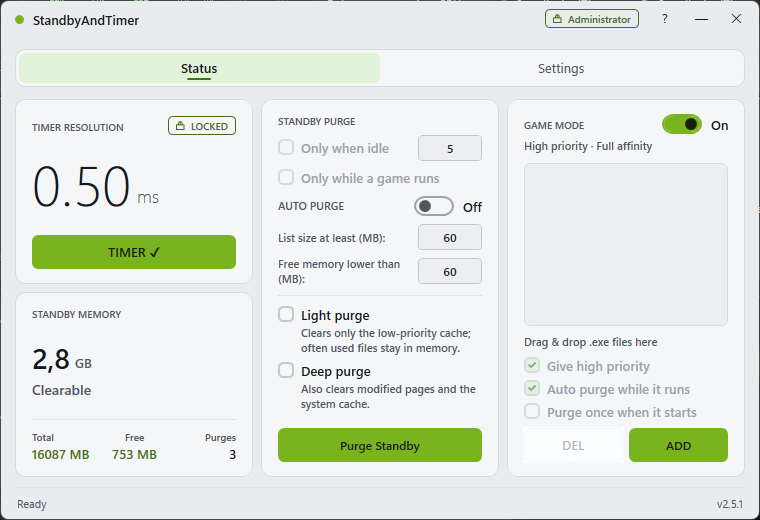
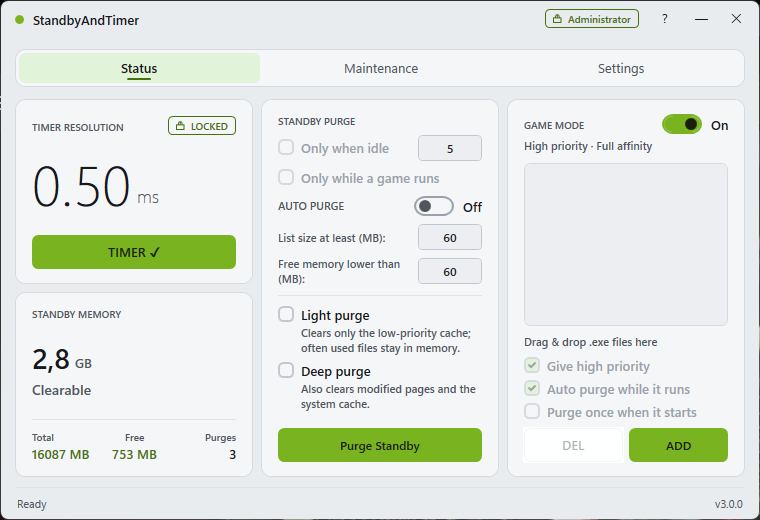
chore: 3.0.0-beta1, README and CLAUDE.md for the Maintenance tab

diff --git a/README.md b/README.md
@@ -20,8 +20,8 @@ A small Windows app for gamers: it makes the system timer finer, frees memory Wi
 | Purge history · Temizlik geçmişi | System settings · Sistem ayarları |
 | <img src="docs/screenshot-guide.png" alt="The usage guide behind the ? button" /> | <img src="docs/screenshot-light.png" alt="Status page in the Light theme" /> |
 | Usage guide (**?**) · Kullanım kılavuzu | Light theme · Açık tema |
-| <img src="docs/screenshot-tray.png" alt="Tray menu with quick settings: deep purge, Game Mode and timer lock" /> | |
-| Tray menu · Tepsi menüsü | |
+| <img src="docs/screenshot-maintenance.png" alt="Maintenance tab: shader caches, temp files, Update leftovers, Recycle Bin and Downloads cleanup, power plan, virtual memory and Windows tools" /> | <img src="docs/screenshot-tray.png" alt="Tray menu with quick settings: deep purge, Game Mode and timer lock" /> |
+| Maintenance tab · Bakım sekmesi | Tray menu · Tepsi menüsü |
 
 </details>
 
@@ -35,11 +35,12 @@ A small Windows app for gamers: it makes the system timer finer, frees memory Wi
 
 ## What it does
 
-StandbyAndTimer runs in the system tray and does three separate jobs. You can use any of them on its own.
+StandbyAndTimer runs in the system tray and does four separate jobs. You can use any of them on its own.
 
 - Windows normally ticks its system timer about every 15.6 ms. The app asks for 0.5 ms instead, which can make mouse input and frame timing in games more even.
 - Windows keeps recently used files cached in RAM as "standby" memory. When free RAM runs low, this cache can cause stutters. The app clears it when you press the button, or by itself when free memory drops below a limit you set.
 - In Game Mode, the games in your list get High CPU priority and all CPU cores while they run. Drag a game's `.exe` into the list, or let the app add games it sees running fullscreen.
+- The Maintenance tab cleans shader caches, temp files, Windows Update leftovers and the Recycle Bin when you ask, sends chosen Downloads to the Recycle Bin, shows the power plan and virtual memory, and opens Windows' own tools (Optimize drives, Disk Cleanup, system file repair). Nothing there runs by itself.
 
 ## How to use it
 
@@ -86,11 +87,12 @@ dotnet run --project StandbyAndTimer/StandbyAndTimer.csproj   # run as administr
 
 ## Ne işe yarar?
 
-StandbyAndTimer sistem tepsisinde çalışır ve birbirinden bağımsız üç iş yapar. İstediğinizi tek başına kullanabilirsiniz.
+StandbyAndTimer sistem tepsisinde çalışır ve birbirinden bağımsız dört iş yapar. İstediğinizi tek başına kullanabilirsiniz.
 
 - Windows normalde sistem zamanlayıcısını yaklaşık 15,6 ms'de bir çalıştırır. Uygulama bunun yerine 0,5 ms ister; bu da oyunlarda fare tepkisini ve kare zamanlamasını daha düzenli hale getirebilir.
 - Windows yakın zamanda kullanılan dosyaları RAM'de "standby" bellek olarak tutar. Boş RAM azaldığında bu önbellek takılmalara yol açabilir. Uygulama bu belleği siz butona bastığınızda ya da boş bellek belirlediğiniz sınırın altına düştüğünde kendiliğinden temizler.
 - Game Mode açıksa listedeki oyunlar, çalıştıkları sürece Yüksek CPU önceliği ve tüm işlemci çekirdeklerini alır. Oyunun `.exe` dosyasını listeye sürükleyebilir ya da uygulamanın tam ekranda çalışan oyunları kendisinin eklemesini bekleyebilirsiniz.
+- Bakım sekmesi, siz istediğinizde shader önbelleklerini, geçici dosyaları, Windows Update artıklarını ve Geri Dönüşüm Kutusu'nu temizler; İndirilenler'den seçtiklerinizi Geri Dönüşüm Kutusu'na taşır; güç planını ve sanal belleği gösterir; Windows'un kendi araçlarını (Sürücüleri iyileştir, Disk Temizleme, sistem dosyası onarımı) açar. Oradaki hiçbir şey kendiliğinden çalışmaz.
 
 ## Nasıl kullanılır?
 

diff --git a/CLAUDE.md b/CLAUDE.md
@@ -62,6 +62,10 @@ Services/                   ← implementations; the only layer that touches Win
   UpdateService             ← GitHub releases/latest, SHA-256 verified download to {app}\updates
   Tray/                     ← WinForms NotifyIcon + themed ContextMenuStrip (TrayMenuPalette)
   ThemeService / LocalizationService ← swap ResourceDictionary slot 1 (palette) / slot 2 (strings)
+  Maintenance/              ← Maintenance tab: ICleanupTarget rows (folder targets, Recycle Bin),
+                              SafeFolderCleaner (the only code that deletes files: never follows
+                              links, skips files in use), Downloads, power plan / page files,
+                              Windows tool launcher, cleanup-history.json
 
 Infrastructure/AppBootstrapper.cs ← Microsoft.Extensions.DependencyInjection, all singletons
 
@@ -70,6 +74,8 @@ ViewModels/
   SettingsViewModel         ← Settings tab (also export / import, updates, hotkey rebinding)
   SystemViewModel           ← System settings panel behind the Administrator badge (settings that
                               change Windows) + the one-time GlobalTimer question
+  MaintenanceViewModel      ← Maintenance tab: scans only while the tab is shown, clean selected,
+                              history, Windows tools; DownloadsViewModel lives while its dialog is open
 
 Views/
   Styles/Theme.xaml         ← control styles; Palette.{Dark,Black,Light,White}.xaml hold the colours
